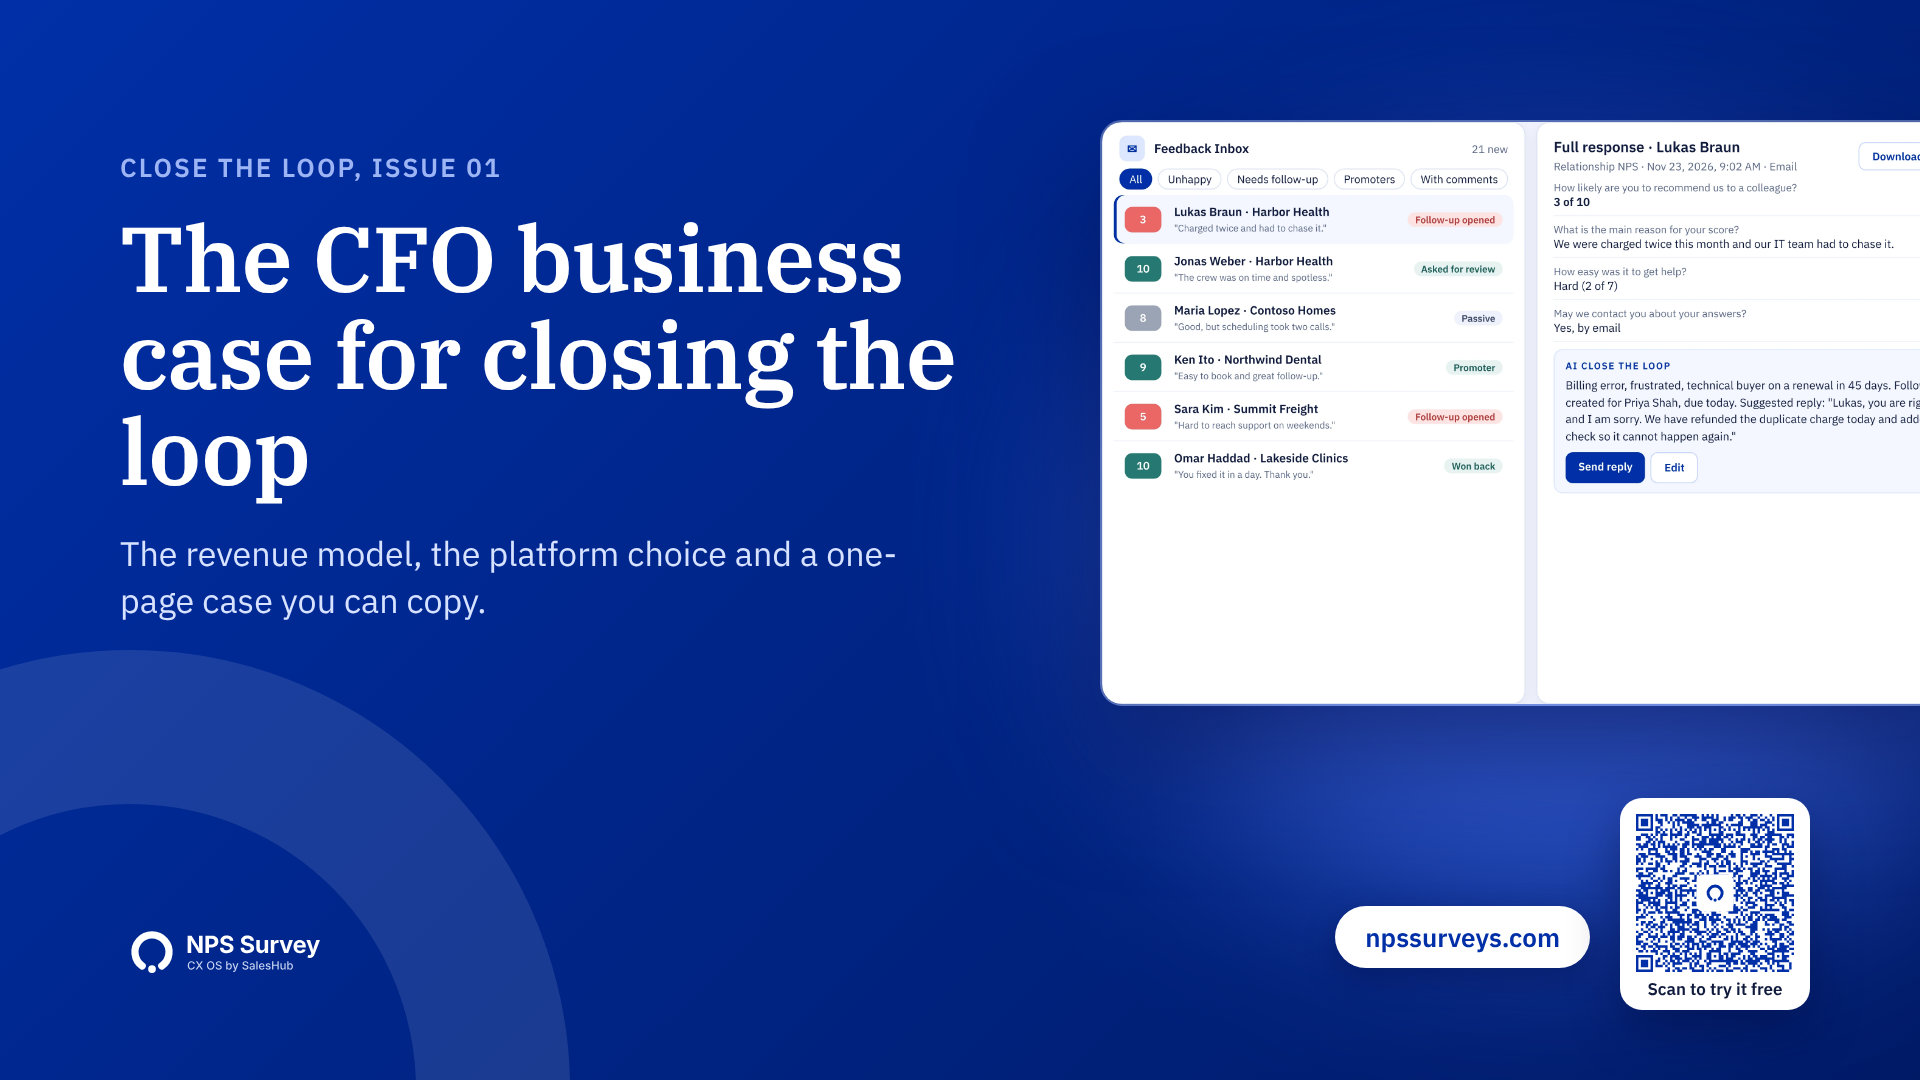
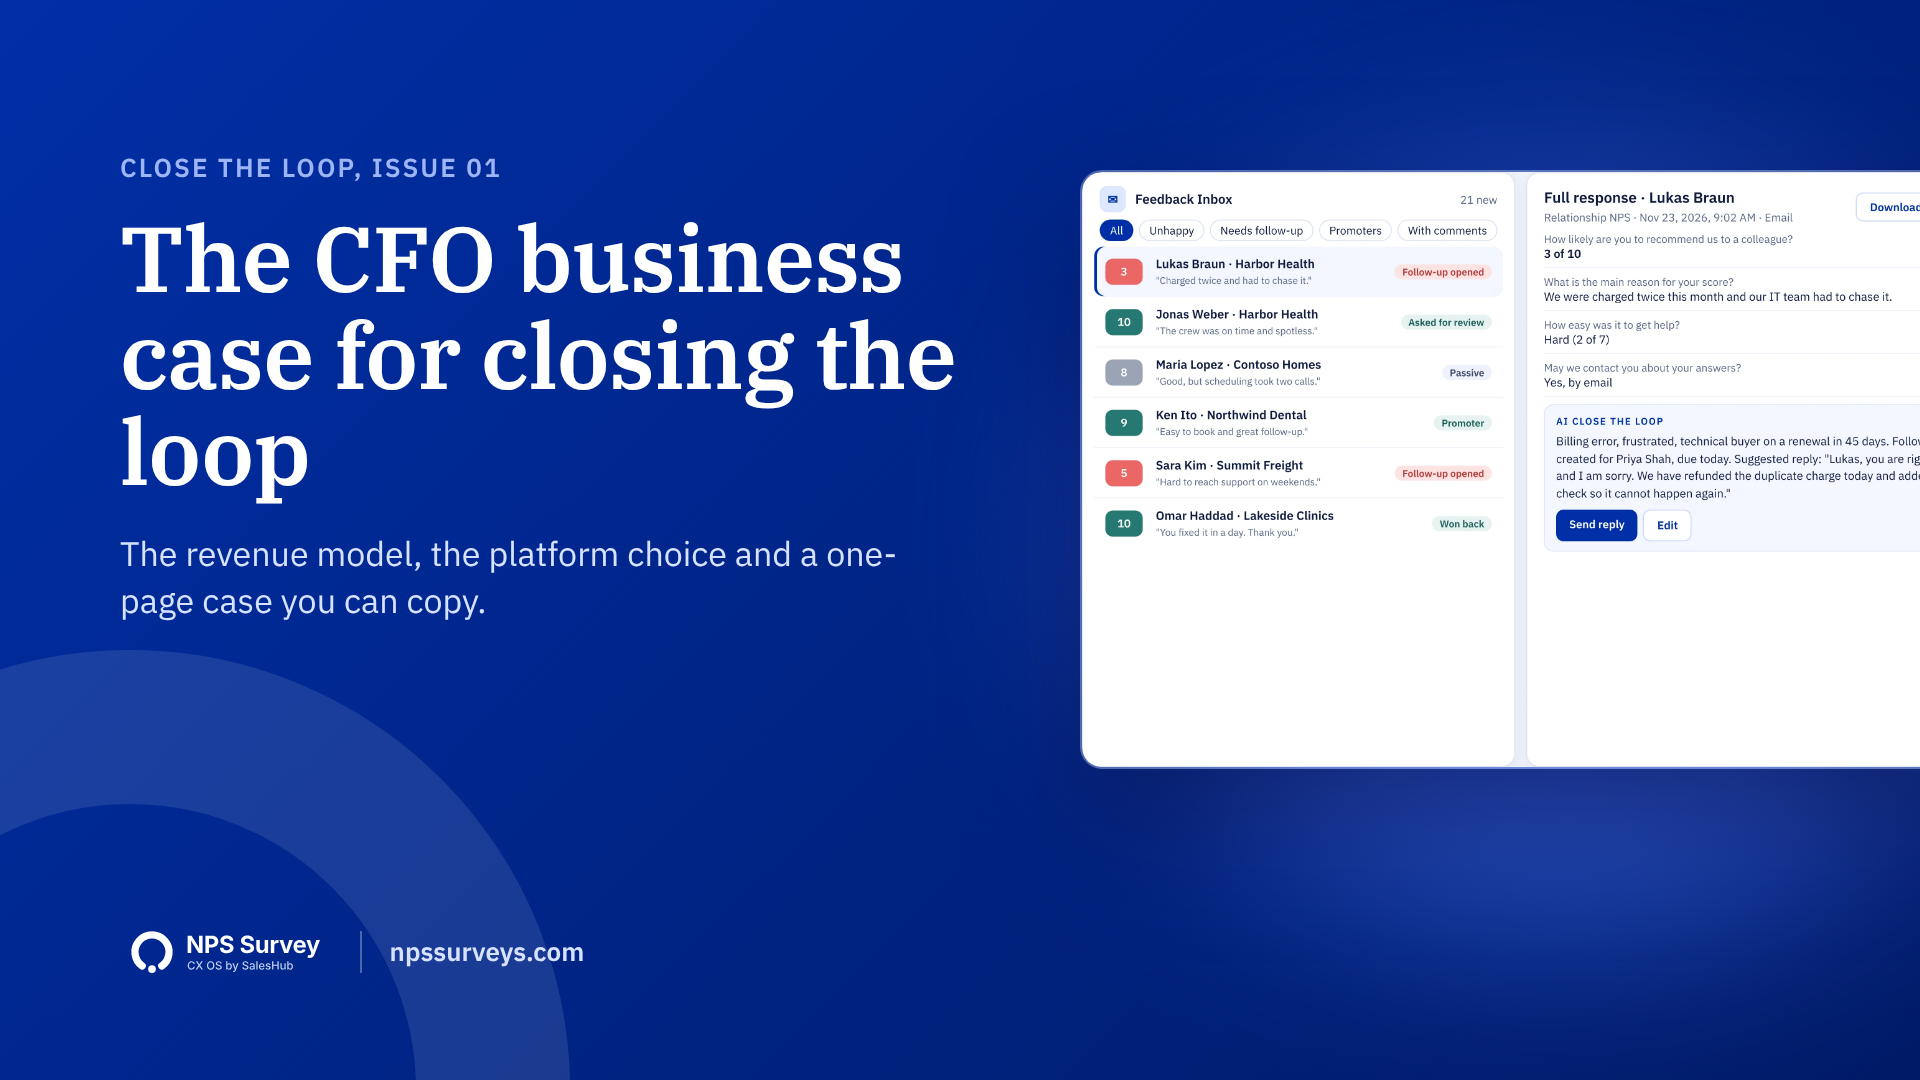
Newsletter: clean covers, QR moved to the issue end card
Claude-Session: https://claude.ai/code/session_01MY5XrxTha1JmVebUjjUfYu

Changed region(s): [[0.5625, 0.0917, 1.0, 0.9472], [0.1875, 0.8556, 0.3125, 0.8861], [0.7188, 0.4278, 0.7812, 0.4889]]

diff --git a/tools/newsletter_covers.py b/tools/newsletter_covers.py
@@ -1,4 +1,7 @@
-"""LinkedIn newsletter / article covers, 1920x1080, Loop brand (one hero, no yellow words)."""
+"""LinkedIn newsletter / article covers, 1920x1080, Loop brand (one hero, no yellow words).
+RULE (Nov 27, 2026): covers stay clean (headline, one hero, logo + npssurveys.com). No QR on covers:
+readers are on the screen they would scan with. The QR lives on the END CARD (files/newsletter/covers/endcard.png),
+which is the last image of every issue, linked to the AppExchange trial."""
 import os, sys, base64
 sys.path.insert(0, os.path.dirname(os.path.abspath(__file__)))
 import plexfont, brandprint
@@ -16,10 +19,10 @@ CSS = plexfont.css() + """*{margin:0;box-sizing:border-box}body{width:1920px;hei
 .k{font-size:26px;font-weight:600;letter-spacing:.08em;text-transform:uppercase;color:#9DB4F5}
 h1{font-family:"IBM Plex Serif";font-weight:600;font-size:92px;line-height:1.05;margin-top:26px;letter-spacing:-.01em}
 .s{font-size:34px;line-height:1.4;color:#D6E2FF;margin-top:30px;max-width:820px}
-.lk{position:absolute;left:120px;bottom:96px}
+.lk{position:absolute;left:120px;bottom:96px;display:flex;align-items:center;gap:28px}.site{font-size:26px;font-weight:600;color:#D6E2FF;padding-left:28px;border-left:2px solid rgba(255,255,255,.3);line-height:1.6}
 .url{position:absolute;right:330px;bottom:112px;background:#fff;color:#002FA7;font-weight:600;font-size:26px;border-radius:99px;padding:14px 30px;box-shadow:0 10px 30px rgba(0,10,60,.35)}
 .qr{position:absolute;right:110px;bottom:70px;width:190px;background:#fff;border-radius:22px;padding:16px 16px 10px;text-align:center;color:#0F1A3D;box-shadow:0 20px 50px rgba(0,10,60,.45)}.qr b{display:block;font-size:17px;font-weight:600;margin-top:6px}
-.shot{position:absolute;right:-60px;top:120px;width:880px;border-radius:22px;box-shadow:0 50px 120px rgba(0,10,60,.55);border:2px solid rgba(255,255,255,.3)}
+.shot{position:absolute;right:-60px;top:170px;width:900px;border-radius:22px;box-shadow:0 50px 120px rgba(0,10,60,.55);border:2px solid rgba(255,255,255,.3)}
 .ph{position:absolute;right:0;top:0;bottom:0;width:820px;background-size:cover;background-position:center}
 .phf{position:absolute;right:0;top:0;bottom:0;width:820px;background:linear-gradient(90deg,#001A66 0%,rgba(0,26,102,.35) 45%,rgba(0,47,167,.15) 100%)}"""
 LIST = "https://appexchange.salesforce.com/appxListingDetail?listingId=a0N3A00000FtRTKUA3&utm_source=linkedin&utm_medium=newsletter&utm_campaign=ctl_qr"
@@ -29,8 +32,21 @@ def cover(kicker, title, sub, shot=None, photo=None):
     return f"""<html><head><style>{CSS}</style></head><body><div class="c">
 <div class="hero" style="width:1100px;height:1100px;left:-420px;bottom:-560px">{MARKW}</div>{right}
 <div class="t"><div class="k">{kicker}</div><h1>{title}</h1><p class="s">{sub}</p></div>
-<div class="lk">{LOCK}</div><div class="url">npssurveys.com</div><div class="qr">{brandprint.qr(LIST, 158)}<b>Scan to try it free</b></div></div></body></html>"""
+<div class="lk">{LOCK}<span class="site">npssurveys.com</span></div></div></body></html>"""
+def endcard(issue):
+    btn = "display:inline-block;border-radius:99px;font-weight:600;font-size:30px;padding:22px 42px;margin-right:18px"
+    return f"""<html><head><style>{CSS}</style></head><body><div class="c">
+<div class="glow" style="width:900px;height:900px;right:-150px;top:-200px;background:#4A78FF;opacity:.55"></div>
+<div class="hero" style="width:1100px;height:1100px;left:-420px;bottom:-560px">{MARKW}</div>
+<div class="t" style="top:200px;width:1050px"><div class="k">Close the Loop, {issue}</div><h1 style="font-size:84px">Close the loop on every customer, inside Salesforce.</h1>
+<p class="s">Rated 5.0 on Salesforce AppExchange. Security reviewed, 100% native, and it works with Slack, Teams and Google reviews.</p>
+<div style="margin-top:46px"><span style="{btn};background:#FFD60A;color:#0F1A3D">Start your 15-day free trial</span><span style="{btn};background:#fff;color:#002FA7">npssurveys.com</span></div></div>
+<div style="position:absolute;right:150px;top:270px;width:440px;background:#fff;border-radius:30px;padding:34px 34px 24px;text-align:center;color:#0F1A3D;box-shadow:0 40px 90px rgba(0,10,60,.5)">{brandprint.qr(LIST, 372)}
+<div style="font-size:28px;font-weight:600;margin-top:14px">Scan to try it free</div><div style="font-size:22px;color:#5A6787;margin-top:4px">Salesforce AppExchange</div></div>
+<div class="lk">{LOCK}</div></div></body></html>"""
+
 JOBS = [
+ ("endcard", endcard("by SalesHub")),
  ("issue-01-cfo", cover("Close the Loop, issue 01", "The CFO business case for closing the loop", "The revenue model, the platform choice and a one-page case you can copy.", shot="assets/product/inbox-focus.webp")),
  ("archive-hybrid-cloud", cover("Close the Loop, from the archive", "Embracing a hybrid cloud approach", "Keep customer data where your team already works, and still use the best of the cloud.", photo="brand/photos/team-meeting.jpg")),
  ("archive-building-on-salesforce", cover("Close the Loop, from the archive", "The ROI of building an app on Salesforce", "What it costs, what it returns, and why native apps keep data in the org.", shot="assets/product/dash-focus.webp")),
